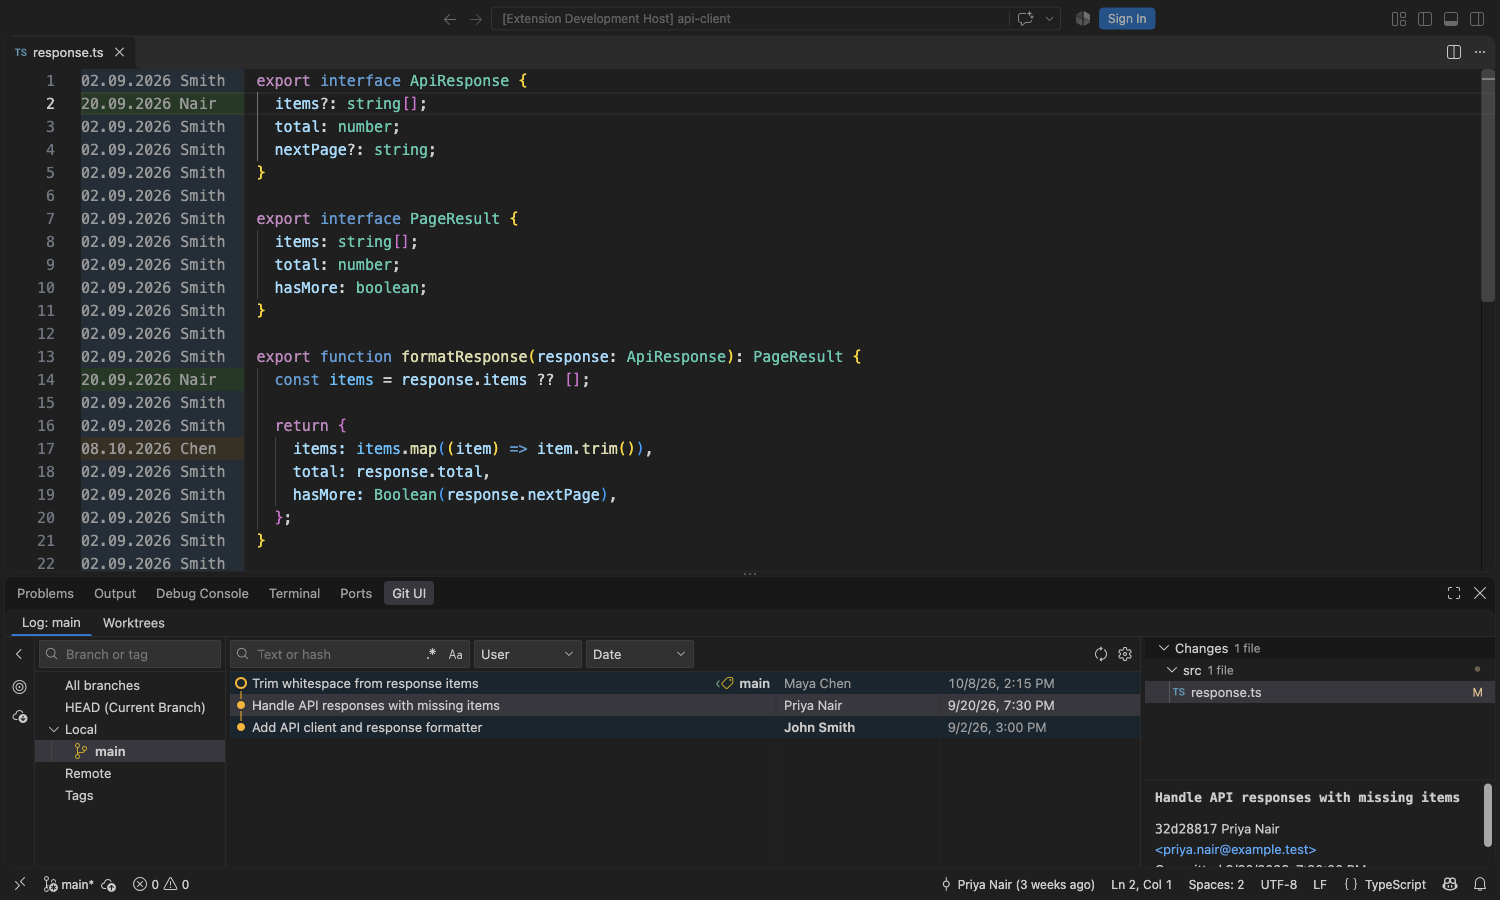
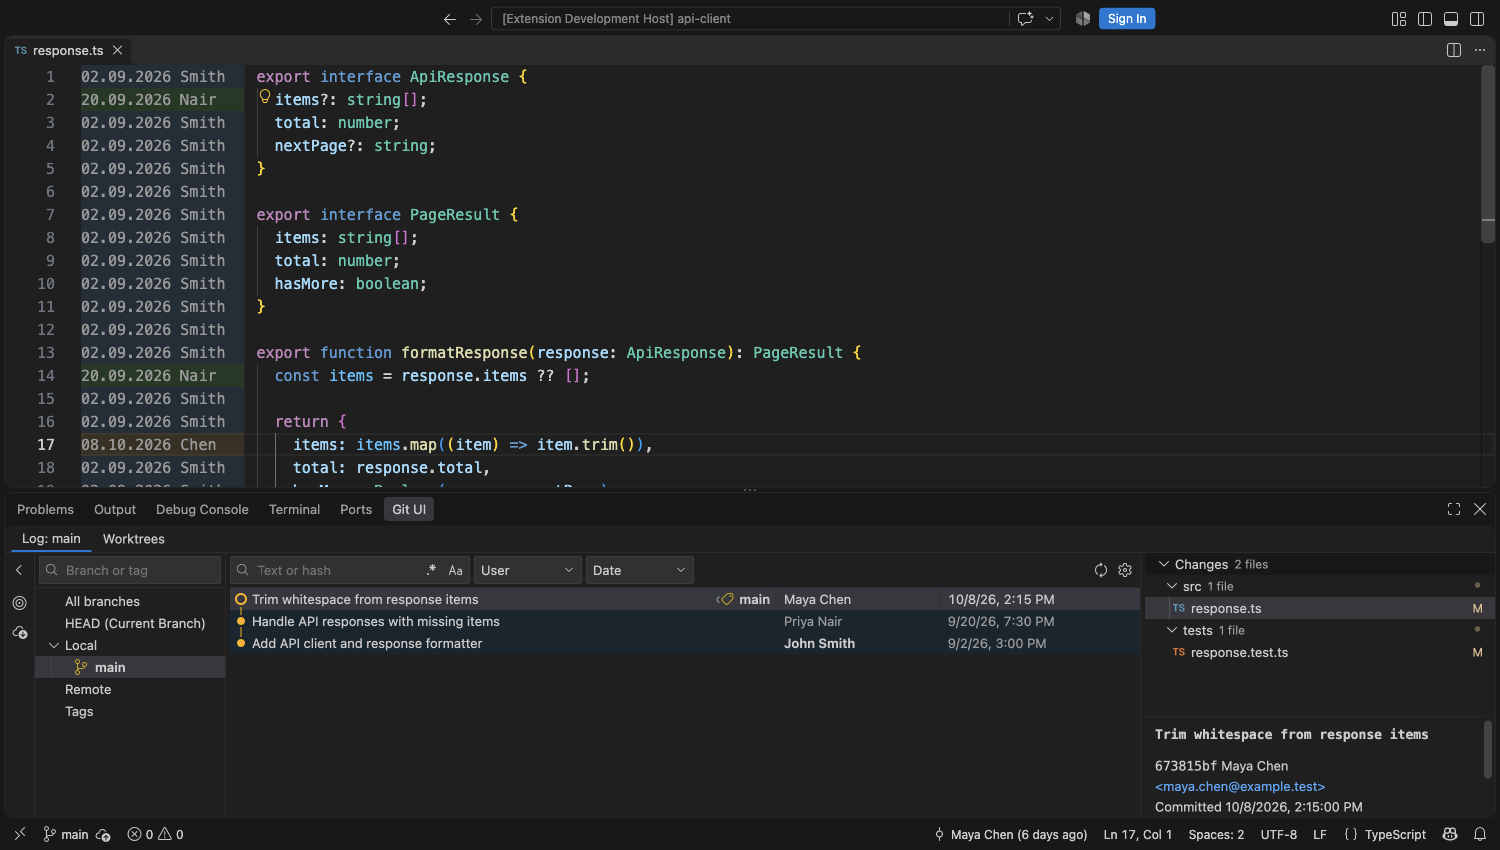
docs: refresh README demos for history and Source Control
Re-record the history and theme demos with a typical three-lane history.
Show the new change groups and conflict recovery in Source Control.
Refresh Blame and stash media and describe the grouped checkbox workflow.

diff --git a/README.md b/README.md
@@ -10,7 +10,7 @@ Inspired by the Git tool window in JetBrains' [IntelliJ IDEA Community Edition](
 
 ## Browse history and inspect changes
 
-![Browse commits, inspect a native diff, search history, and view worktrees while Git UI stays below the open editor in Dark Modern](assets/readme/browsing-dark.gif)
+![Browse commits and branches, inspect a native diff, search history, and view worktrees while Git UI stays below the open editor in Dark Modern](assets/readme/browsing-dark.gif)
 
 ## Fits your VS Code theme
 
@@ -26,7 +26,9 @@ Choose **Git UI: Annotate with Git Blame** from the editor's line-number menu to
 
 ## Improved Source Control
 
-![Check two files, inspect their changes, enter a commit message, and commit them while leaving other files unchanged](assets/readme/changes.gif)
+![Review Merge Changes, Staged Changes and Changes, abort a conflicted merge, then commit two checked files while leaving other files unchanged](assets/readme/changes.gif)
+
+See conflicts, staged edits and other changes in separate groups. Check the files you want to commit, and use the native editor to review changes or resolve conflicts.
 
 ### Stashes
 
